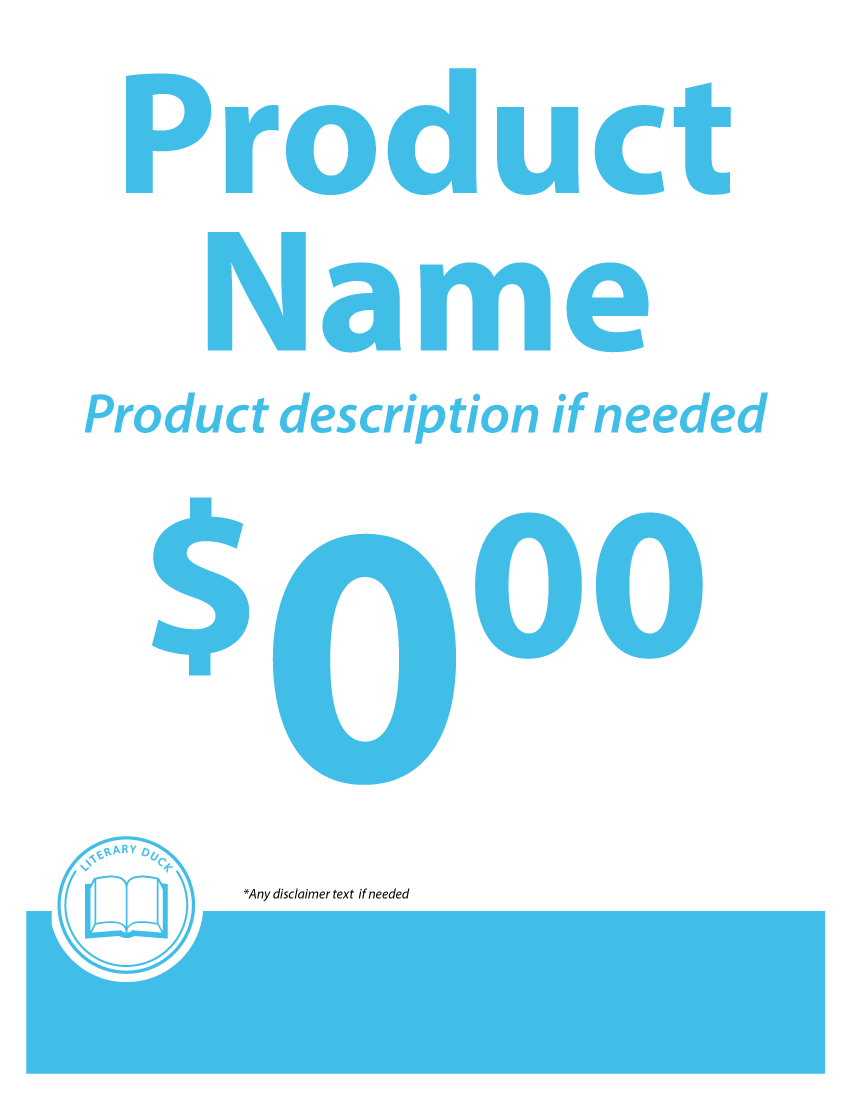
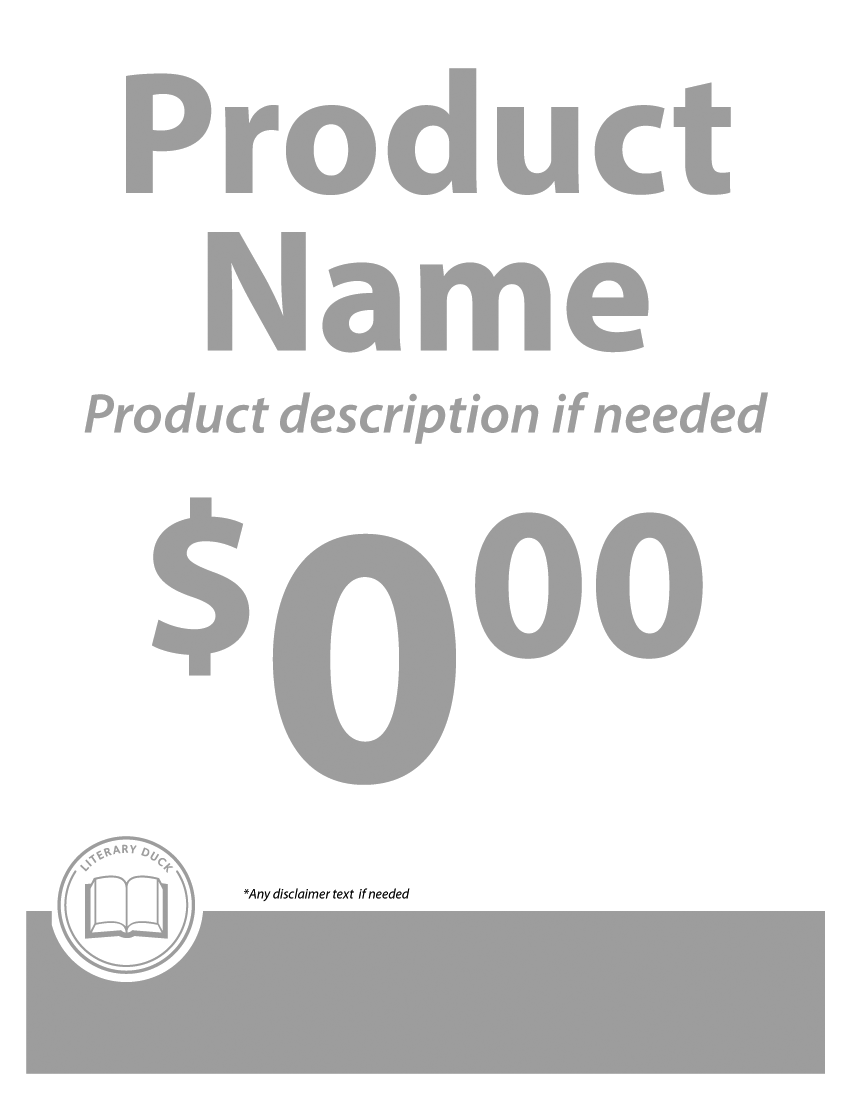
refining misc styling

Changed region(s): [[0.0306, 0.7418, 0.9788, 0.9891], [0.0918, 0.0618, 0.9176, 0.4018], [0.1835, 0.4327, 0.8259, 0.7109]]

diff --git a/css/templates.css b/css/templates.css
@@ -2,15 +2,18 @@
 
 /* 8511a */
 #thumbnail.template-8511a {
-    top: -396px;
-    left: -280px;
+    top: -374px;
+    left: -264px;
 }
 
 .template-8511a {
     width: 850px;
     height: 1100px;
+    width: 8.5in;
+    height: 11in;
     overflow: hidden;
 }
+
 .template-8511a .heading {
     font-weight: bold;
     font-size: 165px;
@@ -64,6 +67,12 @@
     height: 850px;
     overflow: hidden;
 }
+@media print {
+    .template-8511b {
+        width: 11in;
+        height: 8.5in;
+    }   
+}
 .template-8511b .heading {
     font-weight: bold;
     font-size: 165px;
@@ -94,6 +103,12 @@
     height: 850px;
     overflow: hidden;
 }
+@media print {
+    .template-117b {
+        width: 11in;
+        height: 8.5in;
+    }   
+}
 .template-117b .heading {
     font-weight: bold;
     font-size: 165px;
@@ -111,4 +126,59 @@
     line-height: 60px;
     top: 410px;
     left: 27px;
+}
+/* 57a */
+#thumbnail.template-57a {
+    top: -232px;
+    left: -144px;
+}
+#review.template-57a {margin: 0;}
+.template-57a {
+    width: 500px;
+    height: 700px;
+    width: 5in;
+    height: 7in;
+    margin:.5in .5in .5in .5in;
+    overflow: hidden;
+}
+
+.template-57a .heading {
+    font-weight: bold;
+    font-size: 105px;
+    line-height: 87px;
+    top: 46px;
+    letter-spacing: -4px;
+    left: 30px;
+    width: 440px;
+}
+.template-57a .description {
+    font-size: 35px;
+    font-style: italic;
+    font-weight: bold;
+    letter-spacing: -3px;
+    line-height: 40px;
+    top: 251px;
+    left: 30px;
+    width: 439px;
+}
+.template-57a .price {
+    font-size: 130px;
+    font-weight: bold;
+    letter-spacing: 2px;
+    line-height: 60px;
+    top: 359px;
+    left: 20px;
+}
+.template-57a .price .dollar-sign { vertical-align: top }
+.template-57a .price .dollar-amt {
+    font-size: 230px;
+    line-height: 150px;
+}
+.template-57a .price .decimal { display: none }
+.template-57a .price .cents-amt { vertical-align: top }
+.template-57a .disclaimer {
+    top: 884px;
+    left: 250px;
+    font-style: italic;
+    color: black;
 }

diff --git a/css/app.css b/css/app.css
@@ -10,6 +10,11 @@ body { padding-top: 20px }
 .theme-SD { color: #89c33b }
 .theme-LD { color: #3cb0e3 }
 .theme-DS {color: #f4a236 }
+.step {
+    clear: both;
+    margin: 20px;
+    padding: 10px;
+}
 /*
  HUD
  */
@@ -43,11 +48,11 @@ body { padding-top: 20px }
  2. Choose a Template
  Template or Sign list views
  */
-#step-template-choice { width: 820px }
-#build #step-template-choice .active { border: 1px solid green }
+#step-template-choice { max-width: 820px; margin-right: 200px;}
+#build #step-template-choice .active { border: 1px solid black;}
 #build #step-template-choice .switchtemplate {
     display: block;
-    height: 100px;
+    height: 140px;
     width: 200px;
     cursor: pointer;
     padding: 20px;
@@ -63,14 +68,20 @@ a.list-item {
     list-style: none;
     margin: 10px;
     display: inline-block;
-    width: 250px;
-    height: 150px;
+    float: left;
 }
 .list img {
     float: right;
     box-shadow: 1px 1px 10px #ccc;
+    margin: 0 0 10px 10px;
 }
-
+.template-name.ng-binding {
+    font-weight: bold;
+    font-size: 17px;
+}
+.template-description {
+    color: #666;
+}
 /* Edit Text step */
 #step-edit-text li {
     list-style: none;
@@ -113,7 +124,7 @@ a.list-item {
 }
 #review {
     margin: -100px;
-    box-shadow: 0 0 50px black;
+    box-shadow: 0 0 50px #666;
     -webkit-transform: scale(0.7);
     -moz-transform: scale(0.7);
     -o-transform: scale(0.7);
@@ -131,12 +142,13 @@ a.list-item {
     #print-sign {
         display:block;
         padding: 0;
-        margin: 0;
+        
         -webkit-print-color-adjust: exact;
         -webkit-transform: scale(1);
         -moz-transform: scale(1);
         -o-transform: scale(1);
         -ms-transform: scale(1);
+        border:1px solid green;
     }
     html,
     body {

diff --git a/partials/build.html b/partials/build.html
@@ -42,9 +42,9 @@
                 <ul class="templates">
                     <li ng-repeat="template in templates | filter:query | orderBy:templateOrder" class="list">
                         <div switchtemplate ng-click="setTemplate(template)">
-                            {{template.name}}
-                            {{template.id}}
-                            <img ng-src="{{template.thumbnail}}" />
+                            <img ng-src="{{template.thumbnail}}" class="template-image" />
+                            <div class="template-name">{{template.name}}</div>
+                            <div class="template-description">{{template.description}}</div>
                         </div>
                     </li>
                 </ul>

diff --git a/js/controllers.js b/js/controllers.js
@@ -41,11 +41,8 @@ function BuildCtrl($scope, Template) {
     $scope.isDisclaimer = function (field) {
         return (field.type === "disclaimer");
     }
-/*
-    $scope.thumbnailSrc = function () {
-        return '/img/' + $scope.template.slug + '/thumbnail/' + $scope.theme + '.png';
-    }
-*/
+
+    //Return the appropriate path for medium resolution template image
     $scope.mediumSrc = function () {
         if($scope.template.slug && $scope.theme){
             return '/img/' + $scope.template.slug + '/medium/' + $scope.theme + '.png'
